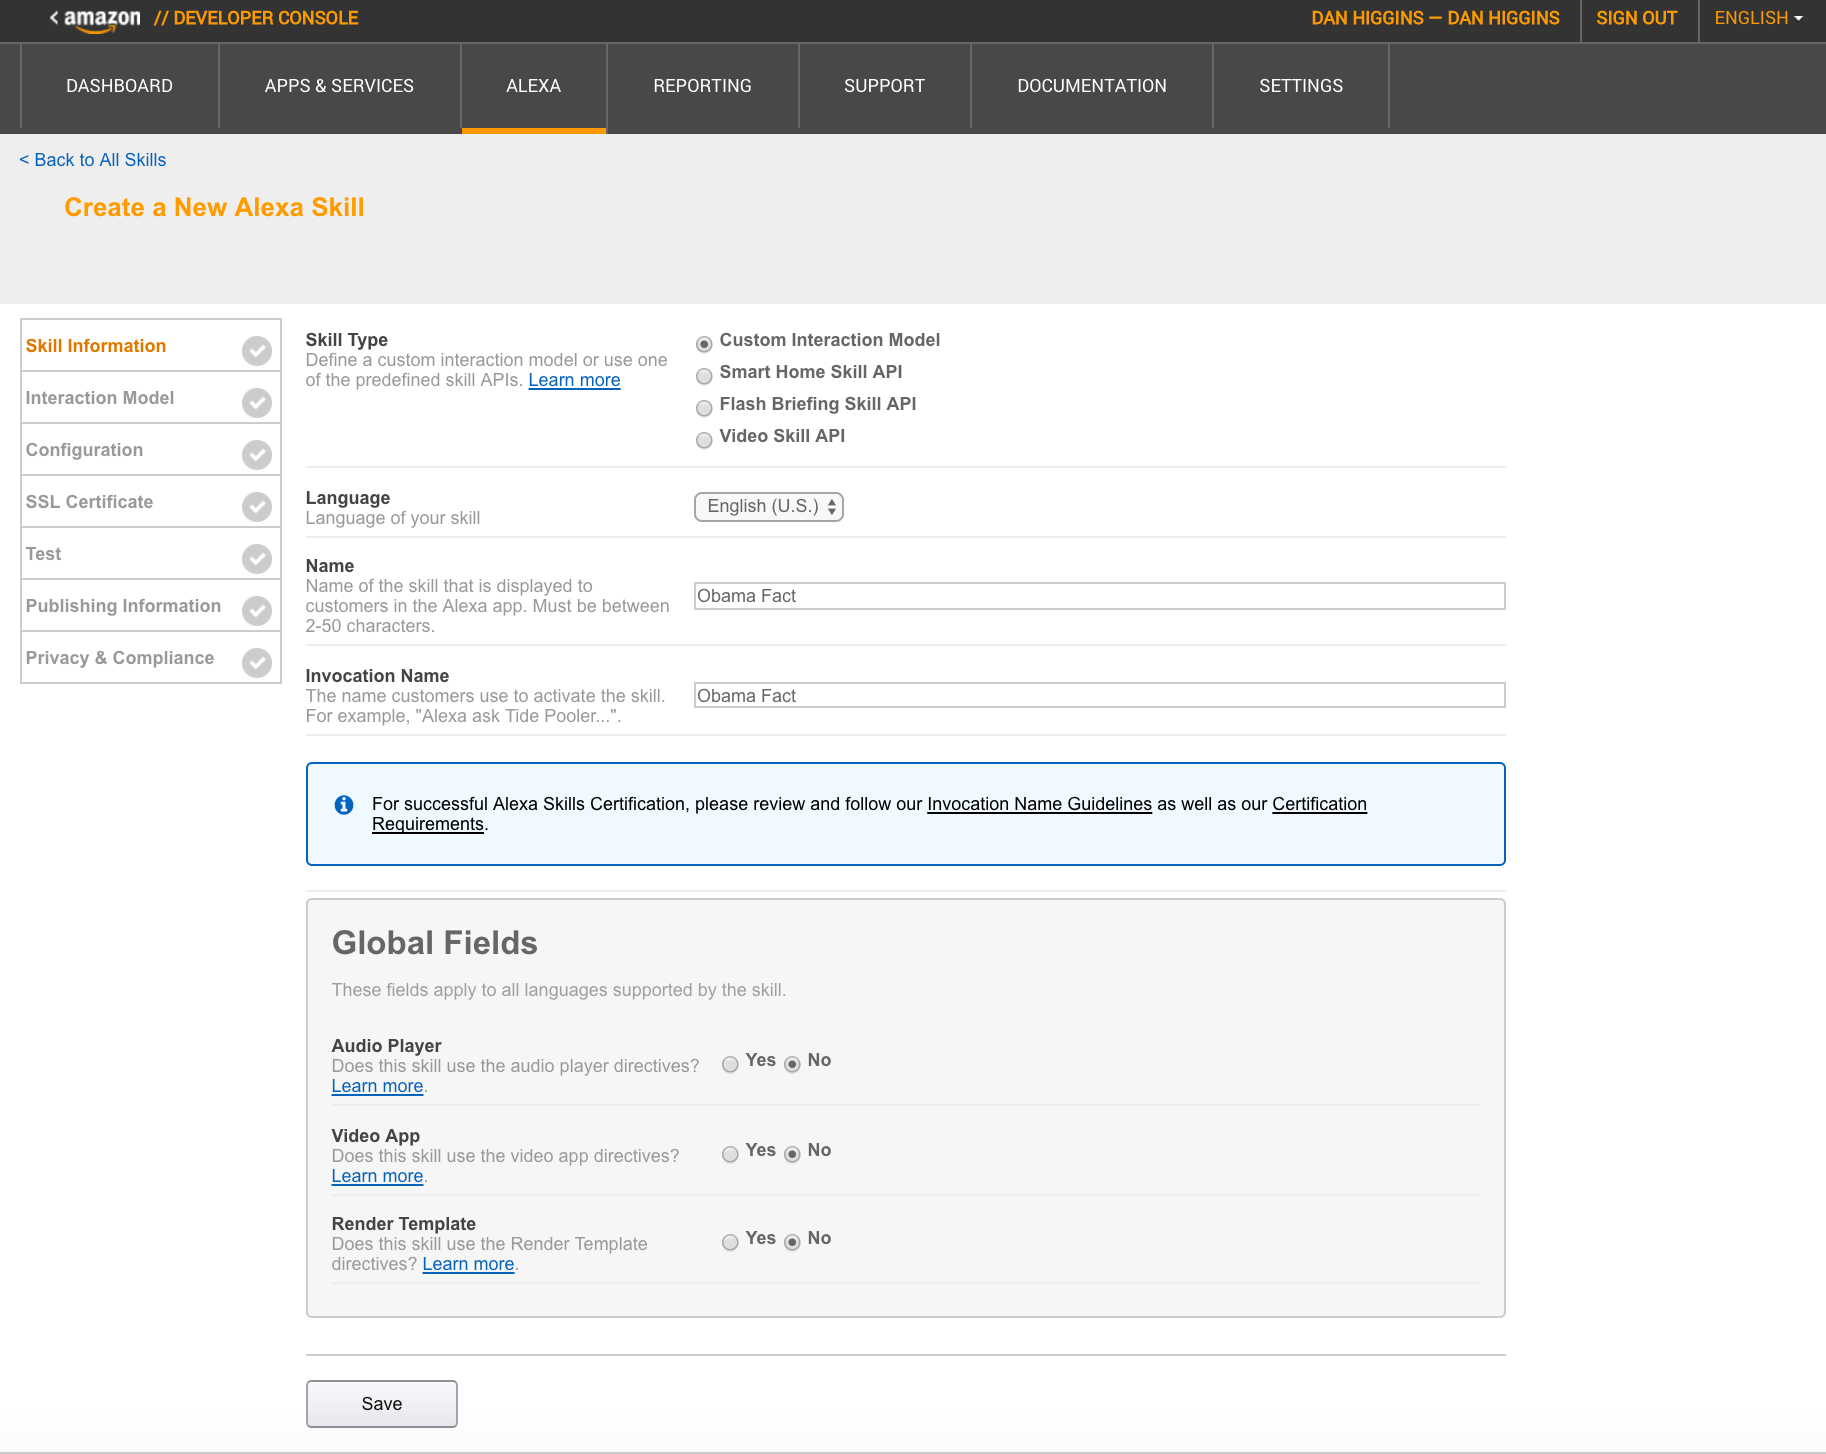
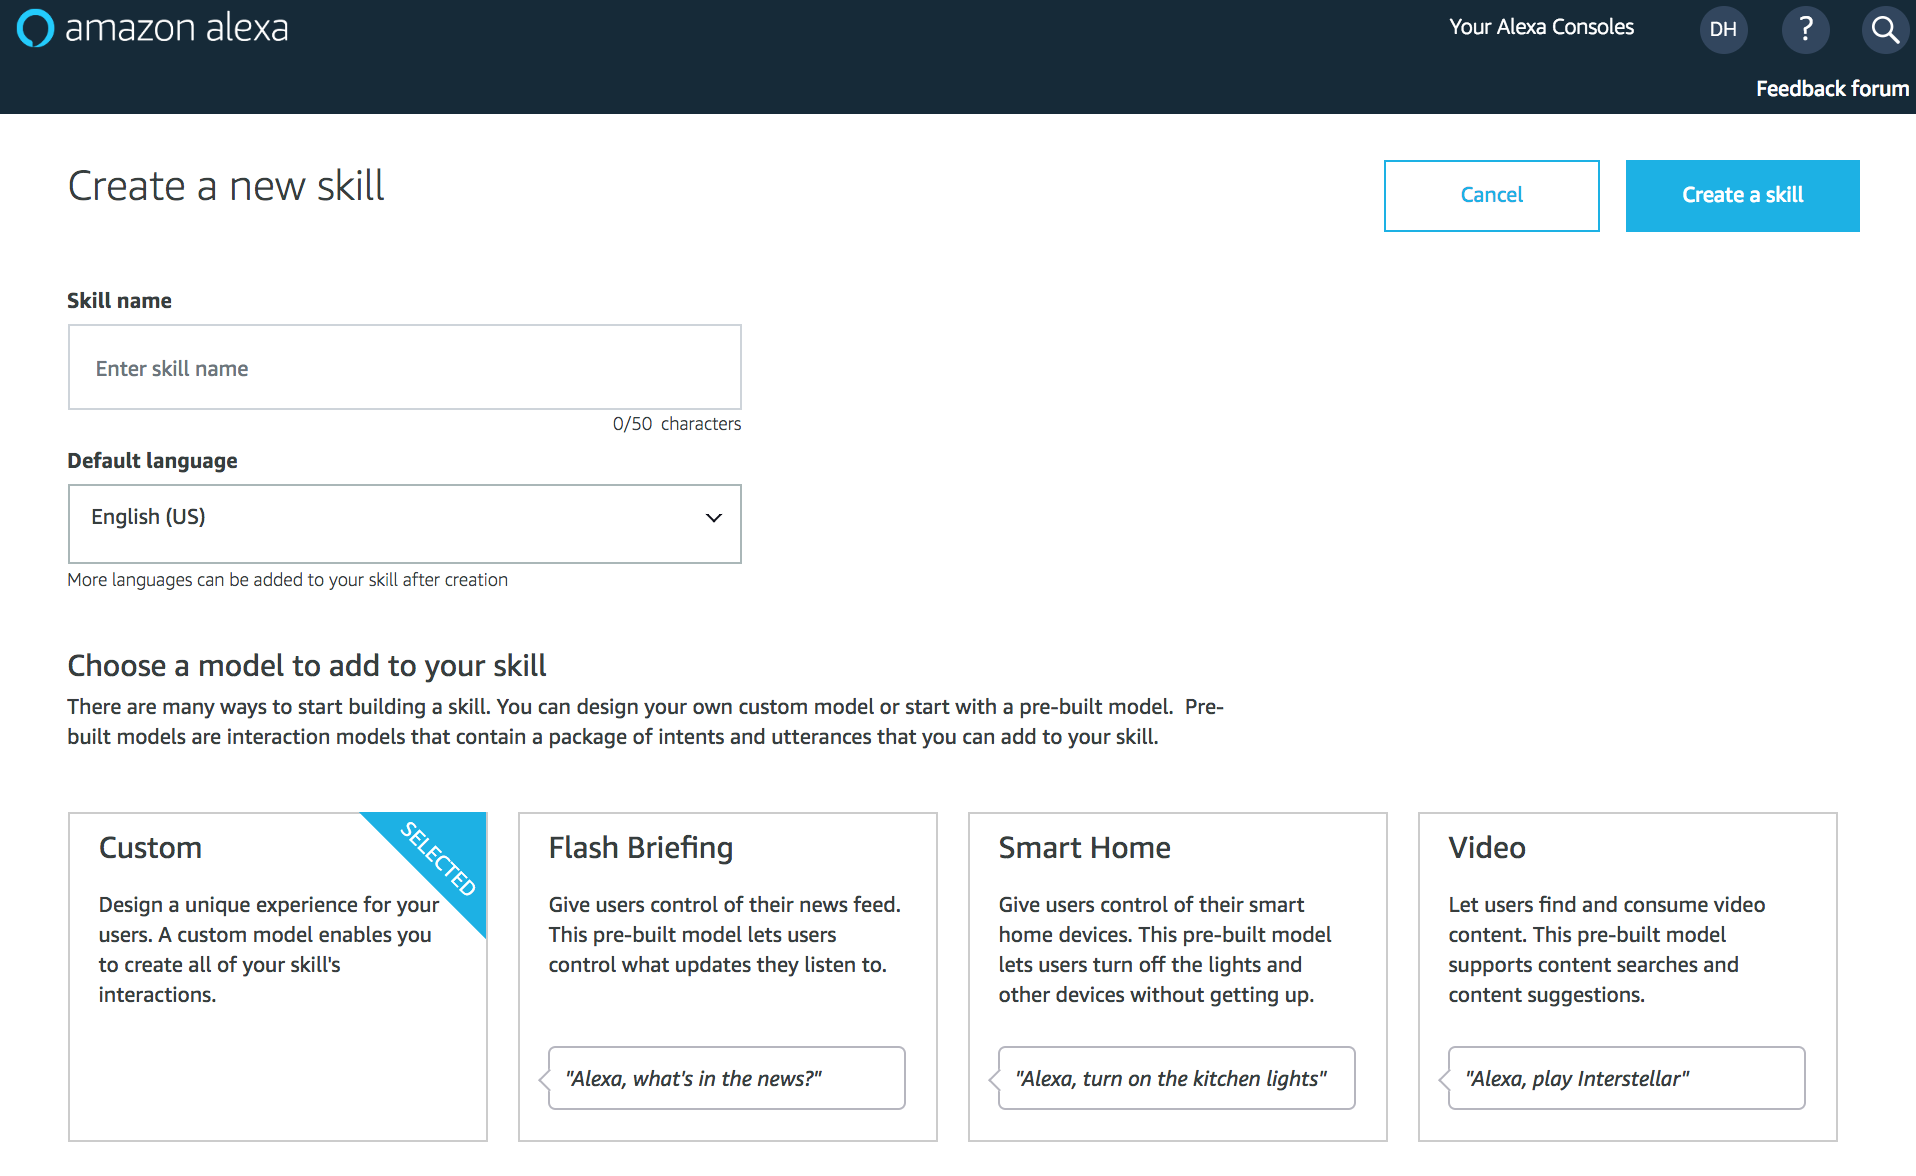
updates to cli

diff --git a/ask_amy/cli/cli_deploy.py b/ask_amy/cli/cli_deploy.py
@@ -1,12 +1,10 @@
 import json
-import pip
 from subprocess import Popen, PIPE
 import os
 import shutil
 import sys
 from ask_amy.cli.code_gen.code_generator import CodeGenerator
 from time import sleep
-import time
 
 class DeployCLI(object):
 
@@ -111,7 +109,8 @@ class DeployCLI(object):
             if source_dir is not None:
                 shutil.copytree(source_dir, ask_amy_dist)
             else:
-                pip.main(['install', '--upgrade', 'ask_amy', '-t', destination_dir])
+                #pip.main(['install', '--upgrade', 'ask_amy', '-t', destination_dir])
+                self.run(self.install_ask_amy_for_upload, destination_dir)
         except FileNotFoundError:
             sys.stderr.write("ERROR: path not found {}\n".format(source_dir))
             sys.exit(-1)
@@ -132,6 +131,10 @@ class DeployCLI(object):
     def make_zipfile(self, output_filename, source_dir):
         output_filename = output_filename[:-4]
         shutil.make_archive(output_filename, 'zip', source_dir)
+
+    install_ask_amy_for_upload = ('pip', 'install', '--upgrade', 'ask_amy',
+                               '-t', 0
+                               )
 
     lamabda_update_function = ('aws', '--output', 'json', 'lambda', 'update-function-code',
                                '--region', 0,
@@ -212,7 +215,11 @@ class DeployCLI(object):
             out = str(out, 'utf-8')
             if not out:
                 out = '{}'
-            return json.loads(out)
+            try:
+                json_out = json.loads(out)
+            except Exception:
+                json_out = {}
+            return json_out
         except Exception as e:
             sys.stderr.write("ERROR: command line error %s\n" % args)
             sys.stderr.write("ERROR: %s\n" % e)

diff --git a/setup.py b/setup.py
@@ -1,13 +1,13 @@
 from setuptools import setup
 
 setup(name='ask_amy',
-      version='0.4.1',
+      version='0.4.3',
       description='Python framework for Alexa Skill development',
       url='https://github.com/dphiggs01/ask_amy',
       author='Dan Higgins',
       author_email='daniel.higgins@yahoo.com',
       license='MIT',
-      packages=['ask_amy', 'ask_amy.cli', 'ask_amy.cli.code_gen','ask_amy.cli.code_gen.templates', 'ask_amy.core', 'ask_amy.database', 'ask_amy.state_mgr', 'ask_amy.utilities'],
+      packages=['ask_amy', 'ask_amy.cli', 'ask_amy.cli.code_gen', 'ask_amy.core', 'ask_amy.database', 'ask_amy.state_mgr', 'ask_amy.utilities'],
       # package_data={'ask_amy': ['cli/code_gen/templates/alexa_lambda_role.json']},
 
       test_suite='ask_amy.tests',

diff --git a/ask_amy/core/skill_factory.py b/ask_amy/core/skill_factory.py
@@ -9,7 +9,7 @@ logger = logging.getLogger()
 
 
 class SkillFactory(object):
-    SKILL_CONFIG = 'skill_config.json'
+    SKILL_CONFIG = 'amy_dialog_model.json'
 
     @staticmethod
     def build(config_file_name=None):

diff --git a/sphinx/getting_started.rst b/sphinx/getting_started.rst
@@ -84,7 +84,7 @@ To deploy our example skill:
                 "Statement": "{\"Sid\":\"al....
             },
             "create_function": {
-                "Role": "arn:aws:iam::095547219887:role/alexa_skill_role",
+                "Role": "arn:aws:iam::095547******:role/alexa_skill_role",
                 "MemorySize": 128,
                 "CodeSize": 69157,
                 "Description": "alexa_obama_fact_skill",
@@ -94,7 +94,7 @@ To deploy our example skill:
                     "Mode": "PassThrough"
                 },
                 "Version": "$LATEST",
-                "FunctionArn": "arn:aws:lambda:us-east-1:095547219887:function:alexa_obama_fact_skill",
+                "FunctionArn": "arn:aws:lambda:us-east-1:095547******:function:alexa_obama_fact_skill",
                 "CodeSha256": "JZ/7XolvjCmxaYHUELY7ezuPGJWQs1os6Udhwv1rG9Y=",
                 "LastModified": "2017-07-23T17:17:05.962+0000",
                 "Handler": "ask_amy.lambda_function.lambda_handler",
@@ -108,14 +108,14 @@ To deploy our example skill:
         `ask-amy-cli deploy_lambda --deploy-json-file cli_config.json`
 
 
-* Logon to `Alex Development Portal <https://developer.amazon.com/alexa>`_. Select `Add New Skill`
+* Logon to `Alex Development Portal <https://developer.amazon.com/alexa/console/ask>`_. Select `Create Skill`
 
     .. image:: _static/tut_1_01_add_new_skill.png
             :width: 600px
             :height: 203px
 
-* In **Skill Information** set *Name* to `Obama Fact` and set *Invocation Name* to `Obama Fact`, click `Save`
-  and `Next`
+* In **Create a new skill** set *Skill name* to `Obama Fact` and set *Default language* to `English (US)`,
+  choose `Custom` as the model (it is selected by default) click `Create a skill`
 
     .. image:: _static/tut_1_02_skill_information.png
             :width: 600px

diff --git a/sphinx/index.rst b/sphinx/index.rst
@@ -41,7 +41,7 @@ Alex Request JSON is always available for interrogation for niche cases.
 |design| Design Principles:
 ----------------------------
 * **Separation of Concern** abstracting the text/speech of intent responses into a JSON document and providing a clear demarcation of intent processing, user experience (UX) and application specific code.
-* **Paradigm Consistency** using similar terminology and design patterns found in the *Alexa Service* development allows for a more seamless flow between *intent schema* and *ASK Amy Skill* development.
+* **Paradigm Consistency** using similar terminology and design patterns found in the *Alexa Service* development allows for a more seamless flow between *interaction model* and *ASK Amy Skill* development.
 * **Extensible Framework** provides plug-able components to support additional *state machines* or different *databases*.
 * **Microservices** approach to skill development and application integration enhances reuse-ability of code.
 

diff --git a/notes.md b/notes.md
@@ -9,6 +9,7 @@ with ask_amy accelerators
 * python setup.py sdist
 * python setup.py sdist upload
 
+https://pypi.org/project/ask_amy/
 
 pip install --upgrade ask_amy
 
@@ -20,7 +21,9 @@ ask-amy-cli create_template --skill-name alexa_scorekeeper_skill --role-name arn
 
 for sphinx documentation creation use deploy.sh in sphinx directory
 
+cleanup example skills dist directory
 find . -type d -name dist -exec rm -rf {} \;
+find . -type f -name alexa_skill.zip -exec rm {} \;
 
 
 
